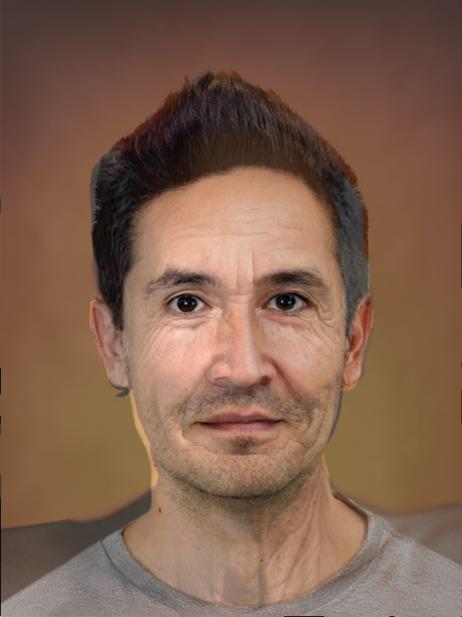
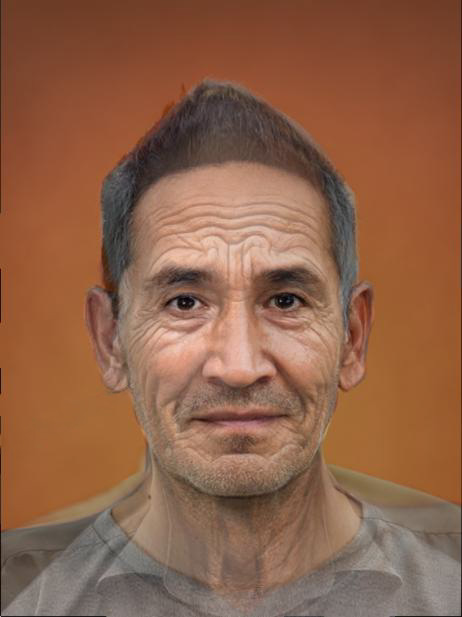
html cleanup

diff --git a/3/index.html b/3/index.html
@@ -418,16 +418,32 @@
             <img src="./media/old/05.jpg" alt="Edge Filter Sweep" width=150>
         </div>
     </div>
+    <p class='indented'> Here are some of the points of correspondance for the synthetic older dataset:
+    <div class="image-wrapper indent-level-1">
+        <div class="image-block">
+            <img src="./media/old1_topo.jpg" alt="Edge Filter Sweep" width=350>
+        </div>
+        <div class="image-block">
+            <img src="./media/old3_topo.jpg" alt="Edge Filter Sweep" width=350>
+        </div>
+    </div>
+    </p>
     <br>
     <div class="image-wrapper indent-level-1">
         <div class="image-block">
-            <img src="./media/alonso_old_midway.jpg" alt="Edge Filter Sweep" width=300>
-
+            <div class="image-item">
+                <div class="image-text">Original </div>
+                <img src="./media/alonso_small.jpg" alt="Gaussian blur sweep" width="450" class="pixelated">
+            </div>
+            <div class="image-item">
+                <div class="image-text">Halway morph with older dataset</div>
+                <img src="./media/alonso_old_midway.jpg" alt="Gaussian blur sweep" width="450" class="pixelated">
+            </div>
         </div>
     </div>
 
     <footer>
-        CS 280A - Project 2: Fun with Frequencies | Alonso Martinez
+        CS 280A - Intro to Computer Vision | Alonso Martinez
     </footer>
     <script>
         function setLabelsAndSize(containerId) {
